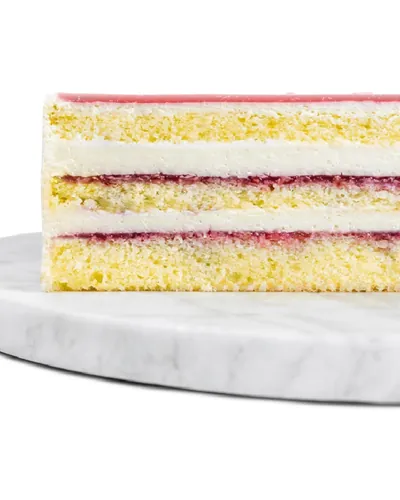
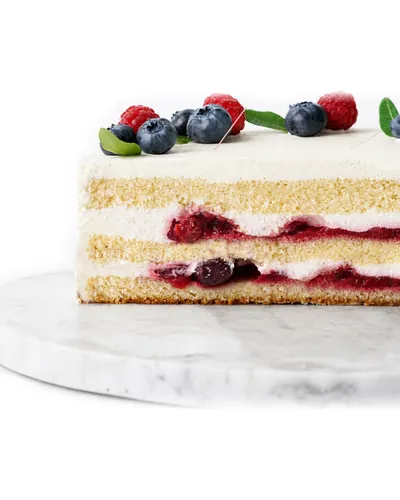
Ягідний пломбір — версія з ягодами (сторіз 54): 1500 грн, d20, нові фото й КБЖВ; підпис під тортом у hero; «Радимо спробувати» оновлено; каталог повертає на початок списку при зміні категорії; скрипт фото пропускає не-сторіз

diff --git a/css/style.css b/css/style.css
@@ -568,11 +568,12 @@ body:not([data-page="index"]) .site-header, .site-header.is-scrolled { backgroun
   /* фото притиснуте до правого нижнього кута; лівий і верхній краї м'яко розчиняються у фоні */
   .hero__media img {
     inset: auto var(--hero-photo-shift) 0 auto; width: var(--hero-photo-size); height: auto;
-    max-height: calc(100% - var(--header-h) - 12px);   /* торт не заходить під шапку */
+    bottom: 48px;                                      /* місце для підпису під тортом */
+    max-height: calc(100% - var(--header-h) - 60px);   /* торт не заходить під шапку */
     object-fit: contain; object-position: right bottom; transform-origin: right bottom;
-    -webkit-mask-image: linear-gradient(to right, transparent 0, #000 22%, #000 90%, transparent 100%), linear-gradient(to bottom, transparent 0, #000 16%);
+    -webkit-mask-image: linear-gradient(to right, transparent 0, #000 22%, #000 90%, transparent 100%), linear-gradient(to bottom, transparent 0, #000 16%, #000 90%, transparent 100%);
     -webkit-mask-composite: source-in;
-    mask-image: linear-gradient(to right, transparent 0, #000 22%, #000 90%, transparent 100%), linear-gradient(to bottom, transparent 0, #000 16%);
+    mask-image: linear-gradient(to right, transparent 0, #000 22%, #000 90%, transparent 100%), linear-gradient(to bottom, transparent 0, #000 16%, #000 90%, transparent 100%);
     mask-composite: intersect;
   }
   .hero__inner {
@@ -583,7 +584,8 @@ body:not([data-page="index"]) .site-header, .site-header.is-scrolled { backgroun
   .hero__text { max-width: min(560px, 44vw); }
   .hero__title { margin-bottom: 34px; }
   .hero__actions { flex-direction: row; align-items: center; gap: 32px; }
-  .hero__caption { display: block; position: absolute; left: var(--gutter); bottom: 28px; margin: 0; }
+  /* підпис праворуч під тортом */
+  .hero__caption { display: block; position: absolute; right: calc(var(--hero-photo-shift) + var(--hero-photo-size) * .2); bottom: 16px; margin: 0; }
 }
 
 /* Вхід: текст проявляється знизу, фото повільно «сідає». Вимикається при «зменшити рух». */

diff --git a/js/catalog.js b/js/catalog.js
@@ -77,11 +77,18 @@
       writeUrl();
     }
 
+    // Змінили категорію чи фільтр унизу списку — повертаємо на початок списку
+    const toListTop = () => {
+      const header = MC.qs('.site-header');
+      const top = MC.qs('.page-head').getBoundingClientRect().bottom + window.scrollY - (header ? header.offsetHeight : 0);
+      if (window.scrollY > top + 1) window.scrollTo({ top, behavior: 'auto' });
+    };
     chips.addEventListener('click', (e) => {
       const b = e.target.closest('[data-cat]');
       if (!b) return;
       state.cat = b.dataset.cat;
       render();
+      toListTop();
     });
     filters.addEventListener('click', (e) => {
       const b = e.target.closest('[data-filter]');
@@ -94,9 +101,10 @@
         state.on.add(k);
       }
       render();
+      toListTop();
     });
-    sort.addEventListener('change', () => { state.sort = sort.value; render(); });
-    MC.qs('[data-reset]').addEventListener('click', () => { state.on.clear(); state.cat = ''; state.sort = 'popular'; render(); });
+    sort.addEventListener('change', () => { state.sort = sort.value; render(); toListTop(); });
+    MC.qs('[data-reset]').addEventListener('click', () => { state.on.clear(); state.cat = ''; state.sort = 'popular'; render(); toListTop(); });
 
     render();
     const active = chips.querySelector('[aria-pressed="true"]');

diff --git a/styleguide.html b/styleguide.html
@@ -11,7 +11,7 @@
   <!-- шрифти вантажаться паралельно й не затримують показ сторінки -->
   <link rel="stylesheet" href="https://fonts.googleapis.com/css2?family=Cormorant+Garamond:ital,wght@0,500;0,600;1,500&family=Manrope:wght@400;500;600&display=swap" media="print" onload="this.media='all'">
   <noscript><link rel="stylesheet" href="https://fonts.googleapis.com/css2?family=Cormorant+Garamond:ital,wght@0,500;0,600;1,500&family=Manrope:wght@400;500;600&display=swap"></noscript>
-  <link rel="stylesheet" href="css/style.css?v=20261104k">
+  <link rel="stylesheet" href="css/style.css?v=20261104l">
   <style>
     /* Стилі лише для цієї технічної сторінки */
     .sg-swatches { display: grid; grid-template-columns: repeat(auto-fill, minmax(140px, 1fr)); gap: 16px; }
@@ -75,9 +75,9 @@
   </section>
 </main>
 
-<script src="js/config.js?v=20261104k"></script>
-<script src="js/main.js?v=20261104k"></script>
-<script src="js/cart.js?v=20261104k"></script>
+<script src="js/config.js?v=20261104l"></script>
+<script src="js/main.js?v=20261104l"></script>
+<script src="js/cart.js?v=20261104l"></script>
 <script>
   (function () {
     var css = getComputedStyle(document.documentElement);

diff --git a/thanks.html b/thanks.html
@@ -24,7 +24,7 @@
   <!-- шрифти вантажаться паралельно й не затримують показ сторінки -->
   <link rel="stylesheet" href="https://fonts.googleapis.com/css2?family=Cormorant+Garamond:ital,wght@0,500;0,600;1,500&family=Manrope:wght@400;500;600&display=swap" media="print" onload="this.media='all'">
   <noscript><link rel="stylesheet" href="https://fonts.googleapis.com/css2?family=Cormorant+Garamond:ital,wght@0,500;0,600;1,500&family=Manrope:wght@400;500;600&display=swap"></noscript>
-  <link rel="stylesheet" href="css/style.css?v=20261104k">
+  <link rel="stylesheet" href="css/style.css?v=20261104l">
 </head>
 <body data-page="thanks">
 <main id="main">
@@ -38,9 +38,9 @@
   </div>
 </main>
 
-<script src="js/config.js?v=20261104k"></script>
-<script src="js/main.js?v=20261104k"></script>
-<script src="js/cart.js?v=20261104k"></script>
+<script src="js/config.js?v=20261104l"></script>
+<script src="js/main.js?v=20261104l"></script>
+<script src="js/cart.js?v=20261104l"></script>
 <script>
   /* Сторінка «Дякуємо»: номер замовлення, що далі, кнопка «Надіслати в Telegram» */
   MC.ready.then(function () {

diff --git a/index.html b/index.html
@@ -24,7 +24,7 @@
   <!-- шрифти вантажаться паралельно й не затримують показ сторінки -->
   <link rel="stylesheet" href="https://fonts.googleapis.com/css2?family=Cormorant+Garamond:ital,wght@0,300;0,500;0,600;1,300;1,400;1,500&family=Manrope:wght@400;500;600&display=swap" media="print" onload="this.media='all'">
   <noscript><link rel="stylesheet" href="https://fonts.googleapis.com/css2?family=Cormorant+Garamond:ital,wght@0,300;0,500;0,600;1,300;1,400;1,500&family=Manrope:wght@400;500;600&display=swap"></noscript>
-  <link rel="stylesheet" href="css/style.css?v=20261104k">
+  <link rel="stylesheet" href="css/style.css?v=20261104l">
 </head>
 <body data-page="index">
 <main id="main">
@@ -225,9 +225,9 @@
   </section>
 </main>
 
-<script src="js/config.js?v=20261104k"></script>
-<script src="js/main.js?v=20261104k"></script>
-<script src="js/cart.js?v=20261104k"></script>
-<script src="js/index.js?v=20261104k"></script>
+<script src="js/config.js?v=20261104l"></script>
+<script src="js/main.js?v=20261104l"></script>
+<script src="js/cart.js?v=20261104l"></script>
+<script src="js/index.js?v=20261104l"></script>
 </body>
 </html>

diff --git a/delivery.html b/delivery.html
@@ -24,7 +24,7 @@
   <!-- шрифти вантажаться паралельно й не затримують показ сторінки -->
   <link rel="stylesheet" href="https://fonts.googleapis.com/css2?family=Cormorant+Garamond:ital,wght@0,500;0,600;1,500&family=Manrope:wght@400;500;600&display=swap" media="print" onload="this.media='all'">
   <noscript><link rel="stylesheet" href="https://fonts.googleapis.com/css2?family=Cormorant+Garamond:ital,wght@0,500;0,600;1,500&family=Manrope:wght@400;500;600&display=swap"></noscript>
-  <link rel="stylesheet" href="css/style.css?v=20261104k">
+  <link rel="stylesheet" href="css/style.css?v=20261104l">
 </head>
 <body data-page="delivery">
 <main id="main">
@@ -111,9 +111,9 @@
   </section>
 </main>
 
-<script src="js/config.js?v=20261104k"></script>
-<script src="js/main.js?v=20261104k"></script>
-<script src="js/cart.js?v=20261104k"></script>
-<script src="js/delivery.js?v=20261104k"></script>
+<script src="js/config.js?v=20261104l"></script>
+<script src="js/main.js?v=20261104l"></script>
+<script src="js/cart.js?v=20261104l"></script>
+<script src="js/delivery.js?v=20261104l"></script>
 </body>
 </html>

diff --git a/checkout.html b/checkout.html
@@ -24,7 +24,7 @@
   <!-- шрифти вантажаться паралельно й не затримують показ сторінки -->
   <link rel="stylesheet" href="https://fonts.googleapis.com/css2?family=Cormorant+Garamond:ital,wght@0,500;0,600;1,500&family=Manrope:wght@400;500;600&display=swap" media="print" onload="this.media='all'">
   <noscript><link rel="stylesheet" href="https://fonts.googleapis.com/css2?family=Cormorant+Garamond:ital,wght@0,500;0,600;1,500&family=Manrope:wght@400;500;600&display=swap"></noscript>
-  <link rel="stylesheet" href="css/style.css?v=20261104k">
+  <link rel="stylesheet" href="css/style.css?v=20261104l">
 </head>
 <body data-page="checkout">
 <main id="main">
@@ -105,9 +105,9 @@
   </div>
 </main>
 
-<script src="js/config.js?v=20261104k"></script>
-<script src="js/main.js?v=20261104k"></script>
-<script src="js/cart.js?v=20261104k"></script>
-<script src="js/checkout.js?v=20261104k"></script>
+<script src="js/config.js?v=20261104l"></script>
+<script src="js/main.js?v=20261104l"></script>
+<script src="js/cart.js?v=20261104l"></script>
+<script src="js/checkout.js?v=20261104l"></script>
 </body>
 </html>

diff --git a/catalog.html b/catalog.html
@@ -24,7 +24,7 @@
   <!-- шрифти вантажаться паралельно й не затримують показ сторінки -->
   <link rel="stylesheet" href="https://fonts.googleapis.com/css2?family=Cormorant+Garamond:ital,wght@0,500;0,600;1,500&family=Manrope:wght@400;500;600&display=swap" media="print" onload="this.media='all'">
   <noscript><link rel="stylesheet" href="https://fonts.googleapis.com/css2?family=Cormorant+Garamond:ital,wght@0,500;0,600;1,500&family=Manrope:wght@400;500;600&display=swap"></noscript>
-  <link rel="stylesheet" href="css/style.css?v=20261104k">
+  <link rel="stylesheet" href="css/style.css?v=20261104l">
 </head>
 <body data-page="catalog">
 <main id="main">
@@ -65,9 +65,9 @@
   </section>
 </main>
 
-<script src="js/config.js?v=20261104k"></script>
-<script src="js/main.js?v=20261104k"></script>
-<script src="js/cart.js?v=20261104k"></script>
-<script src="js/catalog.js?v=20261104k"></script>
+<script src="js/config.js?v=20261104l"></script>
+<script src="js/main.js?v=20261104l"></script>
+<script src="js/cart.js?v=20261104l"></script>
+<script src="js/catalog.js?v=20261104l"></script>
 </body>
 </html>

diff --git a/product.html b/product.html
@@ -24,7 +24,7 @@
   <!-- шрифти вантажаться паралельно й не затримують показ сторінки -->
   <link rel="stylesheet" href="https://fonts.googleapis.com/css2?family=Cormorant+Garamond:ital,wght@0,500;0,600;1,500&family=Manrope:wght@400;500;600&display=swap" media="print" onload="this.media='all'">
   <noscript><link rel="stylesheet" href="https://fonts.googleapis.com/css2?family=Cormorant+Garamond:ital,wght@0,500;0,600;1,500&family=Manrope:wght@400;500;600&display=swap"></noscript>
-  <link rel="stylesheet" href="css/style.css?v=20261104k">
+  <link rel="stylesheet" href="css/style.css?v=20261104l">
 </head>
 <body data-page="product">
 <main id="main">
@@ -39,9 +39,9 @@
   </section>
 </main>
 
-<script src="js/config.js?v=20261104k"></script>
-<script src="js/main.js?v=20261104k"></script>
-<script src="js/cart.js?v=20261104k"></script>
-<script src="js/product.js?v=20261104k"></script>
+<script src="js/config.js?v=20261104l"></script>
+<script src="js/main.js?v=20261104l"></script>
+<script src="js/cart.js?v=20261104l"></script>
+<script src="js/product.js?v=20261104l"></script>
 </body>
 </html>

diff --git a/b2b.html b/b2b.html
@@ -24,7 +24,7 @@
   <!-- шрифти вантажаться паралельно й не затримують показ сторінки -->
   <link rel="stylesheet" href="https://fonts.googleapis.com/css2?family=Cormorant+Garamond:ital,wght@0,500;0,600;1,500&family=Manrope:wght@400;500;600&display=swap" media="print" onload="this.media='all'">
   <noscript><link rel="stylesheet" href="https://fonts.googleapis.com/css2?family=Cormorant+Garamond:ital,wght@0,500;0,600;1,500&family=Manrope:wght@400;500;600&display=swap"></noscript>
-  <link rel="stylesheet" href="css/style.css?v=20261104k">
+  <link rel="stylesheet" href="css/style.css?v=20261104l">
 </head>
 <body data-page="b2b">
 <main id="main">
@@ -162,9 +162,9 @@
   </section>
 </main>
 
-<script src="js/config.js?v=20261104k"></script>
-<script src="js/main.js?v=20261104k"></script>
-<script src="js/cart.js?v=20261104k"></script>
-<script src="js/b2b.js?v=20261104k"></script>
+<script src="js/config.js?v=20261104l"></script>
+<script src="js/main.js?v=20261104l"></script>
+<script src="js/cart.js?v=20261104l"></script>
+<script src="js/b2b.js?v=20261104l"></script>
 </body>
 </html>

diff --git a/box.html b/box.html
@@ -24,7 +24,7 @@
   <!-- шрифти вантажаться паралельно й не затримують показ сторінки -->
   <link rel="stylesheet" href="https://fonts.googleapis.com/css2?family=Cormorant+Garamond:ital,wght@0,500;0,600;1,500&family=Manrope:wght@400;500;600&display=swap" media="print" onload="this.media='all'">
   <noscript><link rel="stylesheet" href="https://fonts.googleapis.com/css2?family=Cormorant+Garamond:ital,wght@0,500;0,600;1,500&family=Manrope:wght@400;500;600&display=swap"></noscript>
-  <link rel="stylesheet" href="css/style.css?v=20261104k">
+  <link rel="stylesheet" href="css/style.css?v=20261104l">
 </head>
 <body data-page="box">
 <main id="main">
@@ -88,9 +88,9 @@
   </div>
 </main>
 
-<script src="js/config.js?v=20261104k"></script>
-<script src="js/main.js?v=20261104k"></script>
-<script src="js/cart.js?v=20261104k"></script>
-<script src="js/box.js?v=20261104k"></script>
+<script src="js/config.js?v=20261104l"></script>
+<script src="js/main.js?v=20261104l"></script>
+<script src="js/cart.js?v=20261104l"></script>
+<script src="js/box.js?v=20261104l"></script>
 </body>
 </html>

diff --git a/about.html b/about.html
@@ -24,7 +24,7 @@
   <!-- шрифти вантажаться паралельно й не затримують показ сторінки -->
   <link rel="stylesheet" href="https://fonts.googleapis.com/css2?family=Cormorant+Garamond:ital,wght@0,500;0,600;1,500&family=Manrope:wght@400;500;600&display=swap" media="print" onload="this.media='all'">
   <noscript><link rel="stylesheet" href="https://fonts.googleapis.com/css2?family=Cormorant+Garamond:ital,wght@0,500;0,600;1,500&family=Manrope:wght@400;500;600&display=swap"></noscript>
-  <link rel="stylesheet" href="css/style.css?v=20261104k">
+  <link rel="stylesheet" href="css/style.css?v=20261104l">
 </head>
 <body data-page="about">
 <main id="main">
@@ -91,8 +91,8 @@
   </section>
 </main>
 
-<script src="js/config.js?v=20261104k"></script>
-<script src="js/main.js?v=20261104k"></script>
-<script src="js/cart.js?v=20261104k"></script>
+<script src="js/config.js?v=20261104l"></script>
+<script src="js/main.js?v=20261104l"></script>
+<script src="js/cart.js?v=20261104l"></script>
 </body>
 </html>
